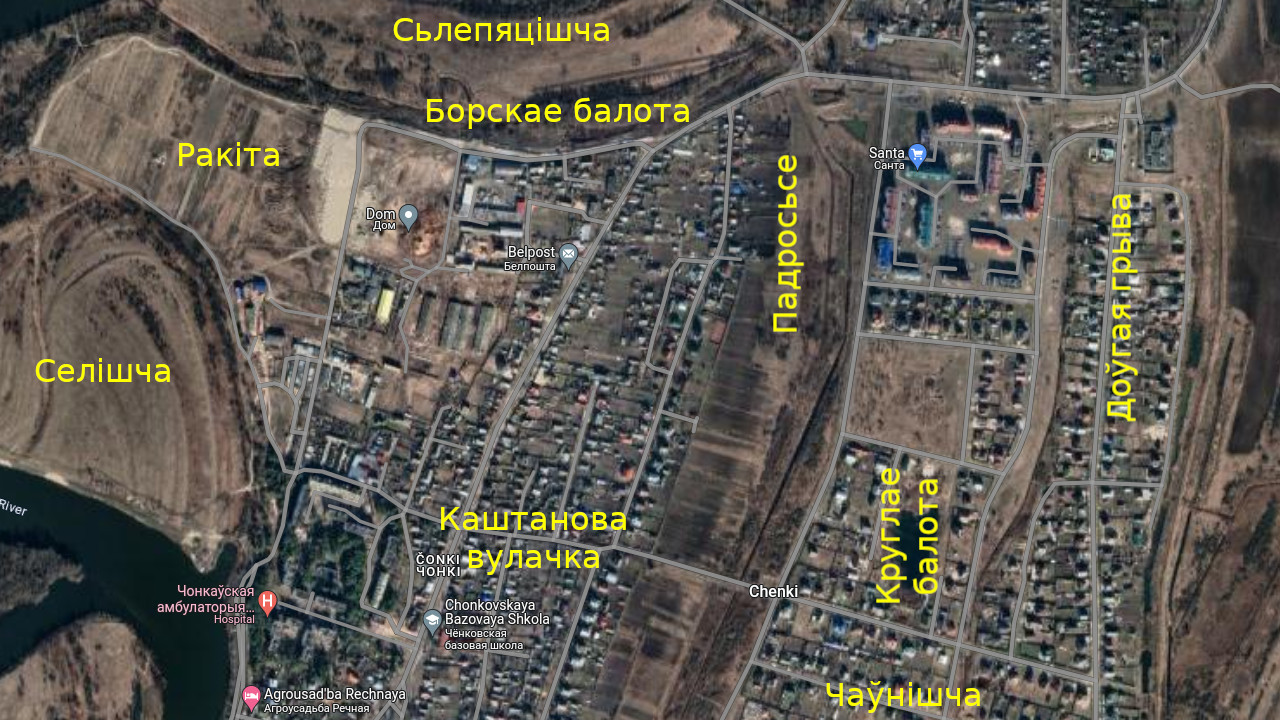
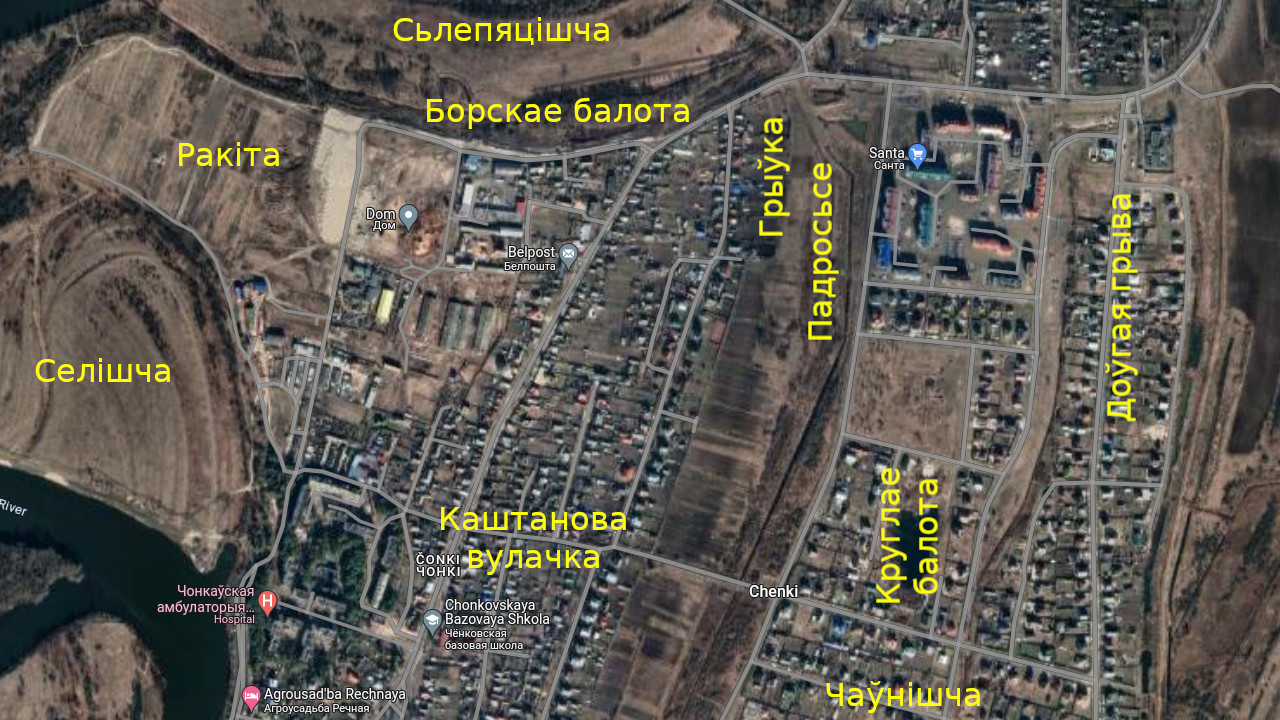
add locations

Changed region(s): [[0.5938, 0.1528, 0.6562, 0.4889]]

diff --git a/locations.md b/locations.md
@@ -10,6 +10,7 @@
 
 - <a id="padziaracza">Падзяра́ча</a>, *ж.* --- поле, абмежаванае гомельскай аб’язной дарогай і дарогай на Чонкі. Назва паходзіць ад рачулкі, якая працякала на поўнач ад поля, цяпер яна вядомая як [Раўчак](#rauczak).
 - Во́саў, *м.* --- могілкі на поўдзень ад Падзярачы. Часам так маглі называць паўднёвую частку Хутара.
+- Брускі́, *мн.* --- поле між дарогай на Чонкі й Сеўрукамі.
 - <a id="hryva">До́ўгая гры́ва</a>, *ж.* --- луг на поўдзень ад Сеўрукоў, на ўсход ад былога калгаснага сада. У паўночнай частцы сёньня знаходзіцца каналізацыйная станцыя. На лузе маецца выцягнутае ўзвышша, якое звычайна называецца «грывай».
 - <a id="pierakavyja">Перакавы́я</a>, *мн.* --- колішняе поле на захад ад Сеўрукоў, там дзе цяперака вуліцы з «арыгінальнымі» назвамі 1, 2 й 3-я Палявыя. Як казала бабуля: «бо там рады́ былі ўспаханыя ўпоперак».
 - Праго́н, *м.* -- Савецкі завулак. Слова «прагон» мае ў нашых краях значэньне «праход для скаціны» або «сьцежка, пратаптаная скацінай».
@@ -20,7 +21,7 @@
 
 - Кру́глае бало́та, *н.* --- сажалка на поўдзень ад былога калгаснага сада, былы кар’ер. Магчыма, кар’ер той быў выкапаны не для здабываньня нейкіх рэсурсаў, гліны ці торфу, а для асушэньня навакольнага балота. *Гл.* *тксм* [Чаўнішча](#czauniszcza).
 - <a id="czauniszcza">Чаўні́шча</a>, *н.* --- поле (ці луг) на поўдзень ад Круглага балота. Паводле старых картаў амаль уся гэтая мясцовасьць была забалочаная, таму можна дапусьціць, што спачатку Чаўнішча адносілася да ўсяго балота, а потым, калі быў выкапаны кар’ер, то яго сталі называць Круглам балотам, а Чаўнішчам -- тэрыторыю на поўдзень ад яго, а на поўнач ад яго зрабілі сад.
-- <a id="padrossie">Падро́сьсе</a>, *н.* --- луг, абмежаваны з усходу канавай, што праходзіць на захад ад былога калгаснага сада, з захаду --- [Грыўкай](#hryuka), з поўначы --- аўтадарогай. У заходняй частцы падзабалочаная лагчына, якую так і называлі --- лашчына або лашчынка.
+- <a id="padrossie">Падро́сьсе</a>, *н.*, *або* Пад расо́й --- луг, абмежаваны з усходу канавай, што праходзіць на захад ад былога калгаснага сада, з захаду --- [Грыўкай](#hryuka), з поўначы --- аўтадарогай. У заходняй частцы падзабалочаная лагчына, якую так і называлі --- лашчына або лашчынка.
 - <a id="hryuka">Гры́ўка</a>, *ж.* --- невялікае поле (цяпер там агароды) на ўсход ад *вул.* Піянэрскай.
 - <a id="borskaje">Бо́рскае бало́та</a>, *н.* --- колішняе балота на поўнач ад Чонак, адразу за аўтадарогай, там дзе цяпер канава.
 - <a id="slepiaciszcza">Сьлепяці́шча</a>, *н.* --- луг між Борскім балотам, Палянай і Сожам.
